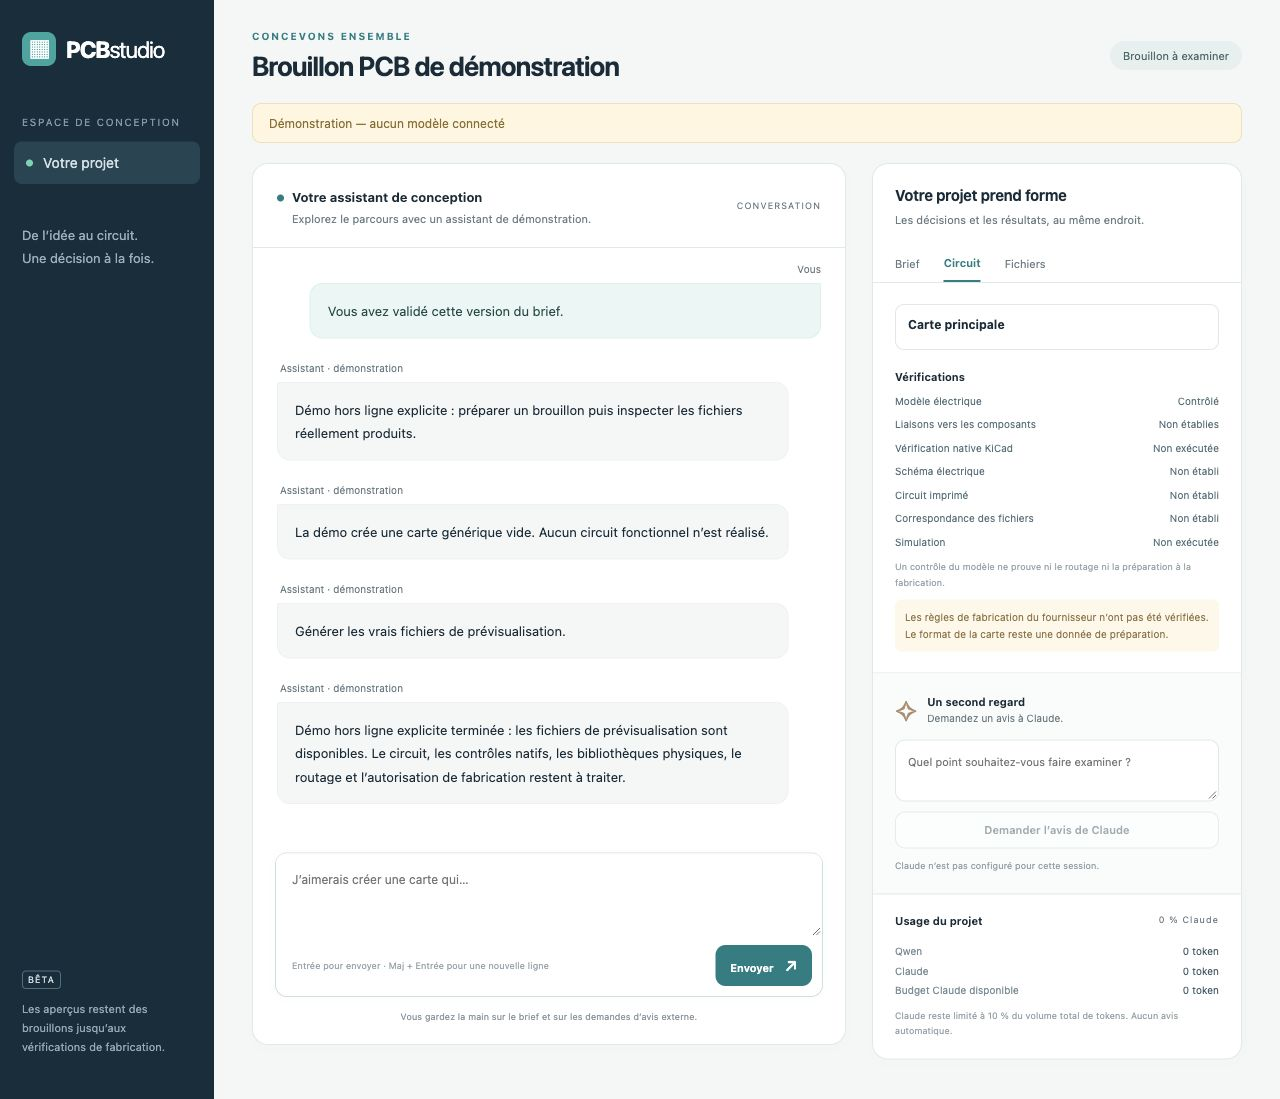
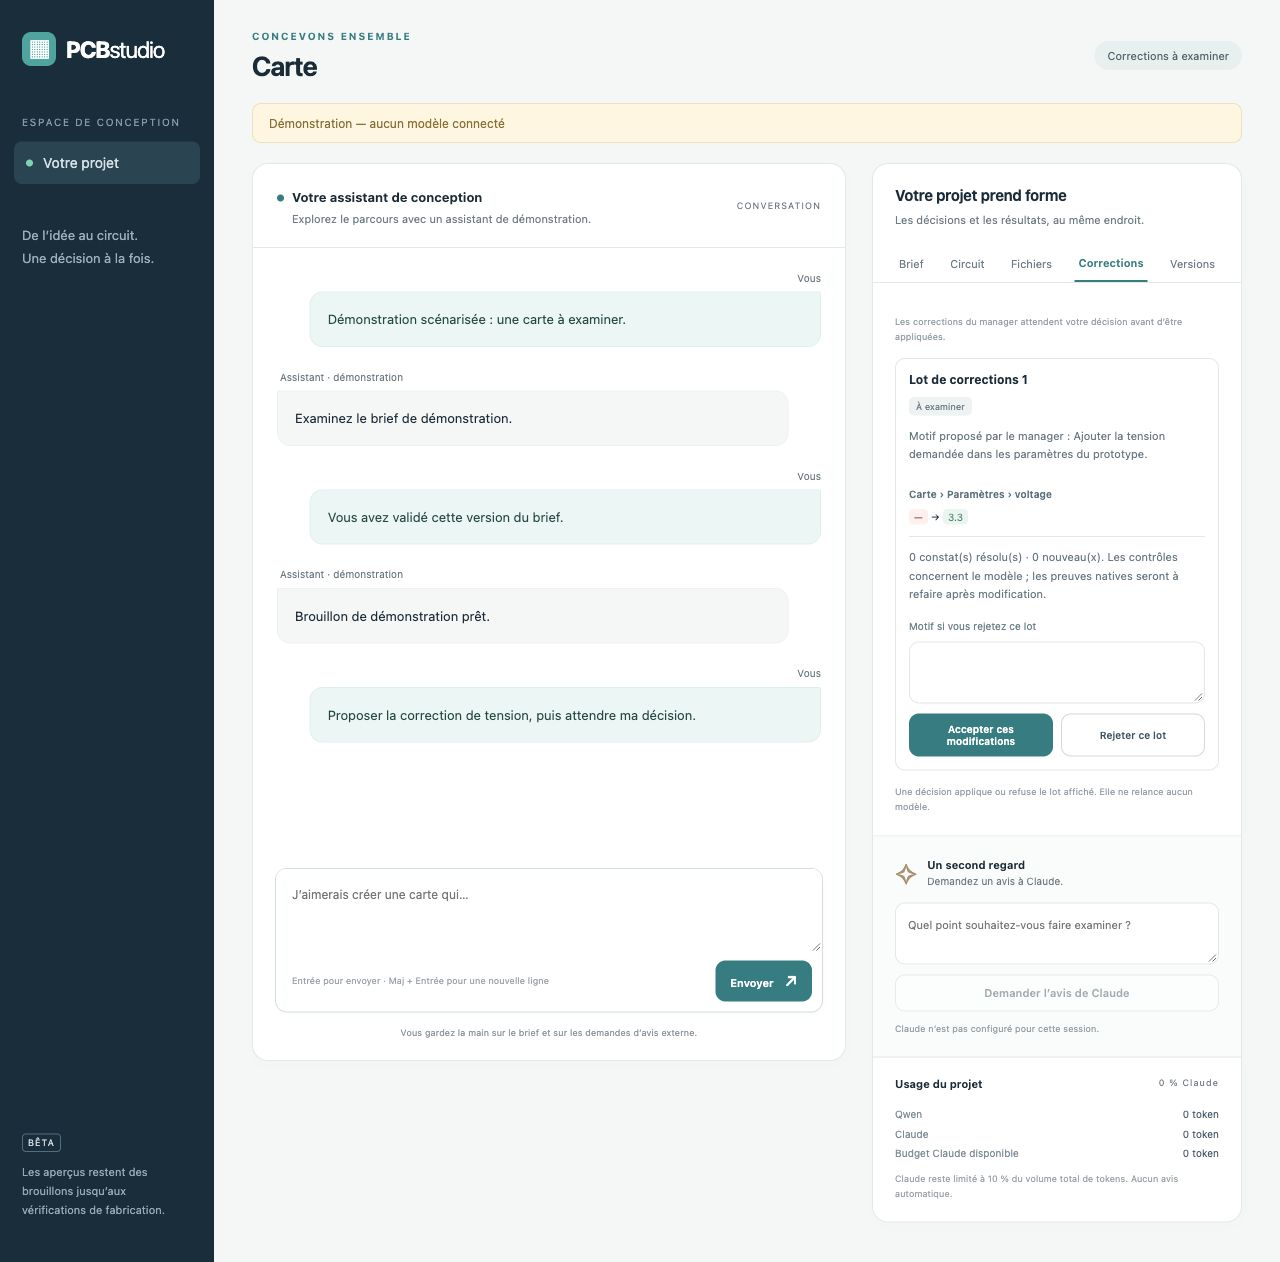
fix: keep version comparison defaults current and clarify review feedback

diff --git a/src/pcb_dev/web/studio.js b/src/pcb_dev/web/studio.js
@@ -6,6 +6,7 @@
   let requestPending = false;
   let pollingTimer = null;
   let conversationKey = "";
+  let historyAfterChosen = false;
   const statusLabels = {new: "À vous de commencer", awaiting_input: "Une précision est attendue", brief_proposed: "Brief à valider", working: "Conception en cours", blocked: "Un point reste à résoudre", review_ready: "Brouillon à examiner", patch_review: "Corrections à examiner", error: "Action interrompue"};
   const number = (value) => typeof value === "number" && Number.isFinite(value) && value >= 0 ? value : 0;
   const tokens = (value) => `${new Intl.NumberFormat("fr-FR").format(number(value))} token${number(value) > 1 ? "s" : ""}`;
@@ -184,7 +185,18 @@
     const display = (value) => value === null ? "—" : typeof value === "object" ? JSON.stringify(value, null, 2) : String(value);
     for (const change of Array.isArray(changes) ? changes : []) {
       const row = element("div", "design-change");
-      row.append(element("div", "change-path", change.path));
+      const labels = {root: "Carte", board: "Format de la carte", parameters: "Paramètres", children: "Blocs", components: "Composants", ports: "Ports", pins: "Broches", position: "Position", constraints: "Contraintes", connections: "Connexions", metadata: "Informations"};
+      let identifier = false, custom = false;
+      const pathLabel = String(change.path).split("/").filter(Boolean).map((part) => {
+        const token = part.replaceAll("~1", "/").replaceAll("~0", "~");
+        const label = identifier || custom ? token : labels[token] || token;
+        custom = custom || (!identifier && token === "parameters");
+        identifier = !identifier && ["children", "components", "ports", "pins"].includes(token);
+        return label;
+      }).join(" › ");
+      const path = element("div", "change-path", pathLabel);
+      path.title = change.path;
+      row.append(path);
       row.append(element("span", "delta-before", display(change.before)), element("span", "", " → "), element("span", "delta-after", display(change.after)));
       target.append(row);
     }
@@ -239,6 +251,7 @@
     }
   }
   function renderHistory(state) {
+    const previousSelection = $("version-before").value + ":" + $("version-after").value;
     const versions = Array.isArray(state.design_versions) ? state.design_versions : [];
     for (const [id, fallback] of [["version-before", versions[0]?.design_hash], ["version-after", versions.at(-1)?.design_hash]]) {
       const select = $(id);
@@ -249,10 +262,16 @@
         option.value = version.design_hash;
         select.append(option);
       }
-      select.value = versions.some((item) => item.design_hash === selected) ? selected : fallback || "";
+      const keepSelection = id !== "version-after" || historyAfterChosen;
+      select.value = keepSelection && versions.some((item) => item.design_hash === selected) ? selected : fallback || "";
       select.disabled = !versions.length;
     }
     $("compare-versions").disabled = !versions.length;
+    if (previousSelection !== $("version-before").value + ":" + $("version-after").value) clearComparison();
+  }
+  function clearComparison() {
+    $("version-comparison").className = "empty-state";
+    $("version-comparison").textContent = "Choisissez deux versions, puis lancez leur comparaison.";
   }
   async function compareVersions() {
     const before = $("version-before").value, after = $("version-after").value;
@@ -350,6 +369,8 @@
     }
   });
   $("compare-versions").addEventListener("click", compareVersions);
+  $("version-after").addEventListener("change", () => { historyAfterChosen = true; clearComparison(); });
+  $("version-before").addEventListener("change", clearComparison);
   $("auth-dialog").addEventListener("cancel", (event) => event.preventDefault());
   $("auth-form").addEventListener("submit", async (event) => {
     event.preventDefault();

diff --git a/src/pcb_dev/web/studio.html b/src/pcb_dev/web/studio.html
@@ -30,7 +30,7 @@
           <div id="conversation" class="conversation" aria-live="polite" aria-relevant="additions">
             <div class="welcome"><div class="welcome-symbol">⌁</div><h2>Décrivez ce que vous voulez créer.</h2><p>À quoi servira votre carte ? Comment sera-t-elle alimentée ? Quelques mots suffisent pour commencer.</p><div class="example-prompts"><button type="button" data-prompt="Je veux une petite carte alimentée en USB pour mesurer la température et allumer une LED.">Un capteur USB</button><button type="button" data-prompt="Je veux piloter un petit moteur à partir d’un microcontrôleur. Aide-moi à préciser les besoins.">Un pilote de moteur</button></div></div>
           </div>
-          <div id="working" class="working" role="status" hidden><span class="pulse-dot"></span> Votre assistant prépare la suite…</div>
+          <div id="working" class="working" role="status" hidden><span class="pulse-dot"></span> Traitement de votre action…</div>
           <form id="chat-form" class="composer"><label for="message" class="sr-only">Votre message</label><textarea id="message" rows="3" maxlength="16000" placeholder="J’aimerais créer une carte qui…" required></textarea><div class="composer-footer"><span>Entrée pour envoyer · Maj + Entrée pour une nouvelle ligne</span><button id="send-button" class="primary-button" type="submit">Envoyer <span aria-hidden="true">↗</span></button></div></form>
           <p class="composer-note">Vous gardez la main sur le brief et sur les demandes d’avis externe.</p>
         </section>

diff --git a/docs/reviewing-changes.md b/docs/reviewing-changes.md
@@ -48,3 +48,8 @@ aveuglément une ancienne version qui pourrait contourner les contraintes actuel
 Le registre de tokens reste séparé des versions et des décisions : une revue,
 un redémarrage ou une comparaison ne recrée aucun crédit Claude. Les hashes locaux
 ne constituent pas une signature contre un administrateur qui remplace les fichiers.
+
+
+![Comparaison de versions en démonstration](images/studio-versions.jpg)
+
+Parcours vérifié avec un fournisseur scénarisé explicite, sans modèle connecté.
